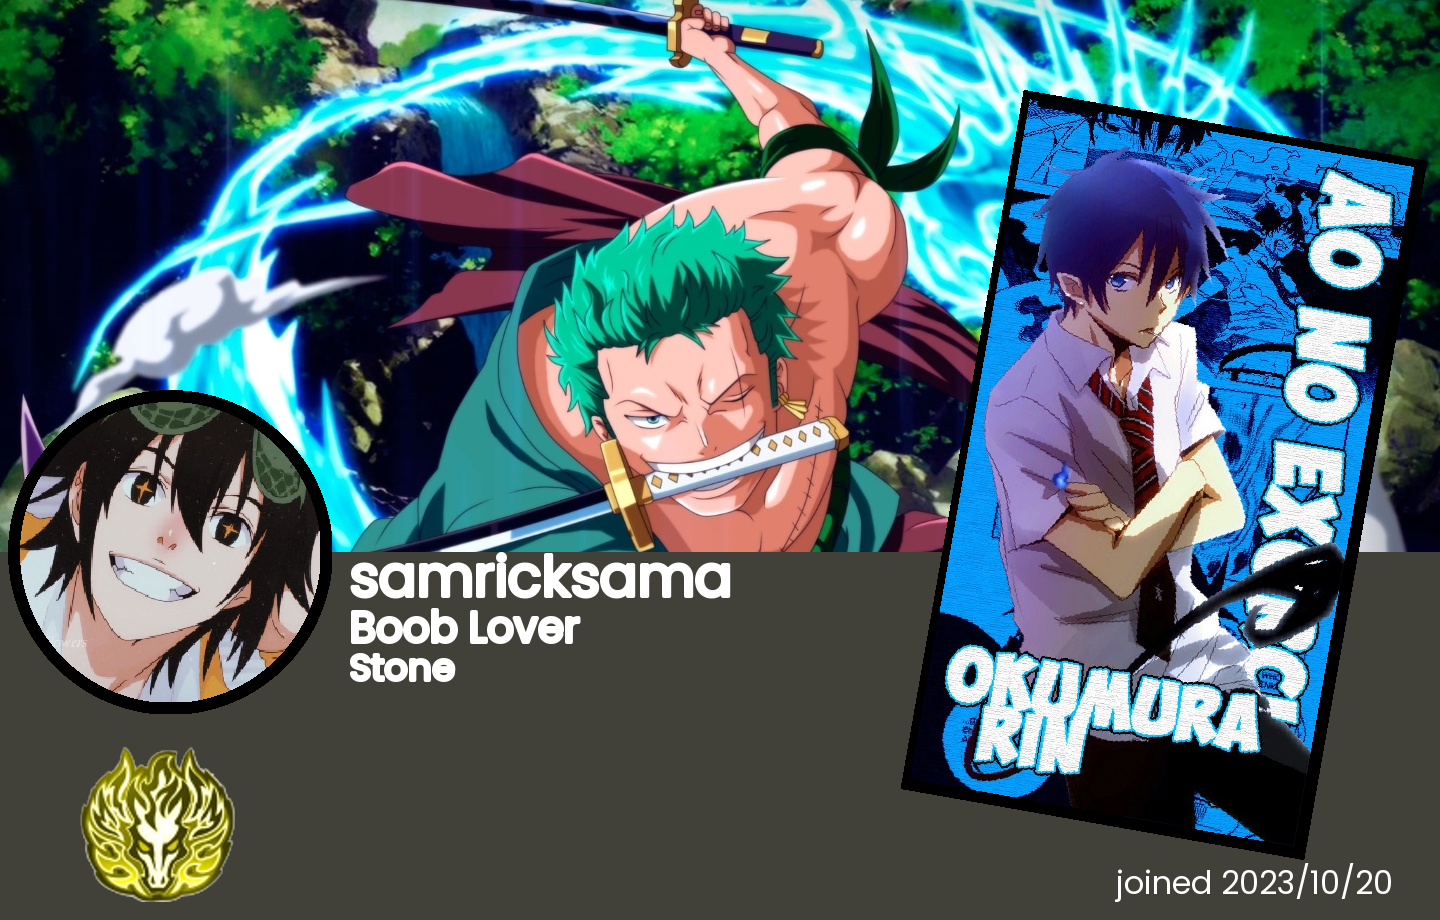
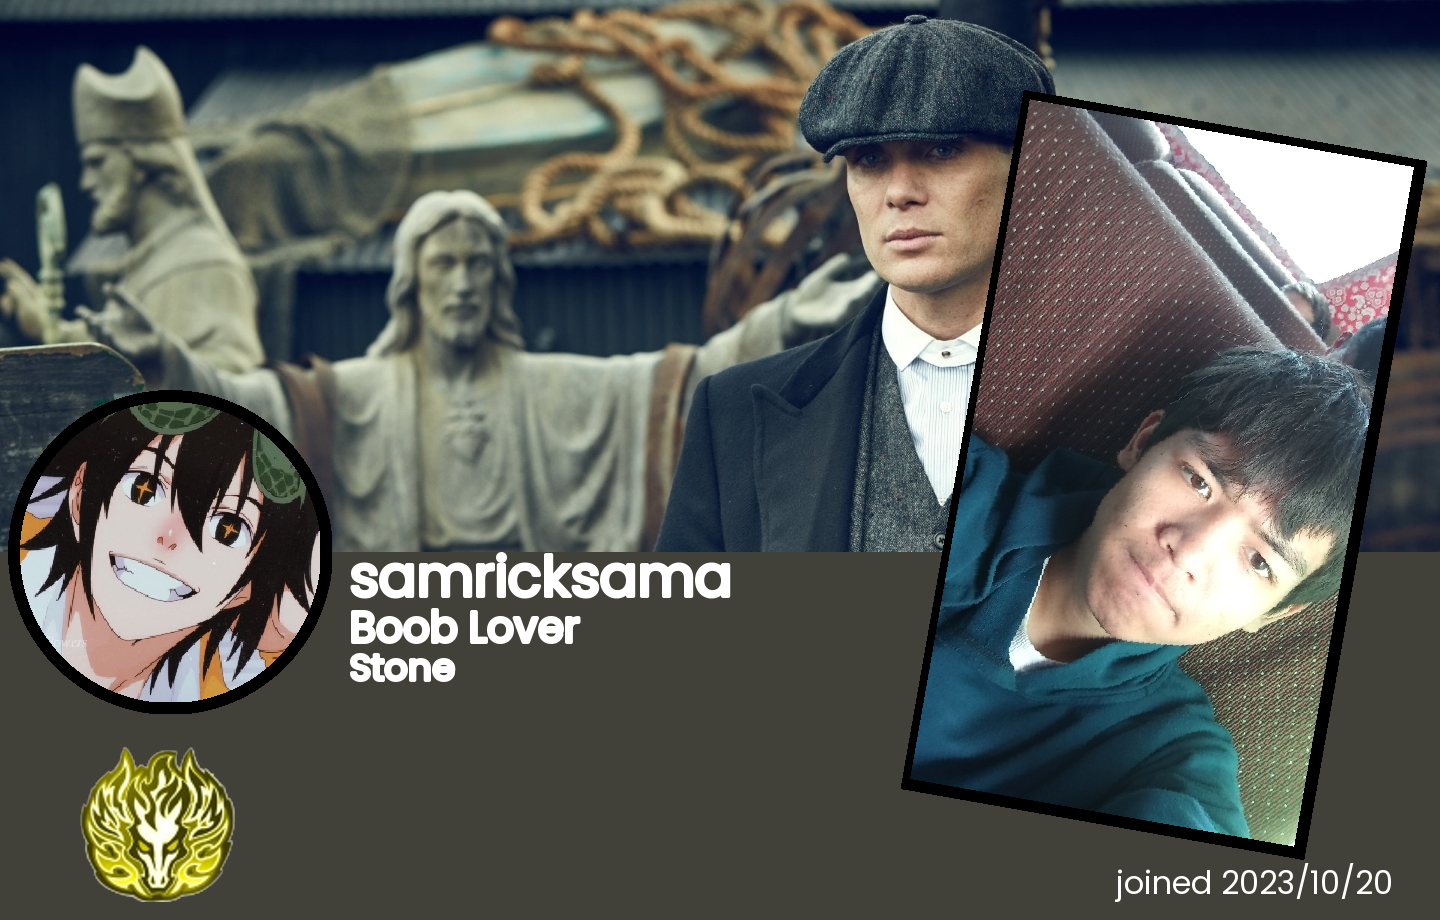
dev update

diff --git a/main.py b/main.py
@@ -798,7 +798,8 @@ card_info = {
   "33.jpg": {"name": "mori", "description": "bulies DBZ ? ", "price": 17000},
   "34.jpg": {"name": "mikey", "description": "KIck lee  ", "price": 2500},
   "35.jpg": {"name": "ichigo", "description": "shinigami, quincy, fullbringer maybe future soul king  ", "price": 17500},
-  "36.jpg": {"name": "itachi", "description": "ur already in my genjutsu...  ", "price": 17500}
+  "36.jpg": {"name": "itachi", "description": "ur already in my genjutsu...  ", "price": 17500},
+  "37.jpg": {"name": "samrick", "description": "DEv photo.. ", "price": 175000}
 
 }
 

diff --git a/Convictions/bgshop.py b/Convictions/bgshop.py
@@ -138,8 +138,8 @@ background_descriptions = {
     53: "Zoro : king of hell",
     54: "Levi akerman",
     55: "Groudon",
-    56: "Messi Lionel",
-    57: "ronaldo 7",
+    56: "LOKI",
+    57: "peaky blinders",
     58: "AJ styles",
     59: "Muichiro demon slayer",
     60: "Pikachu",
